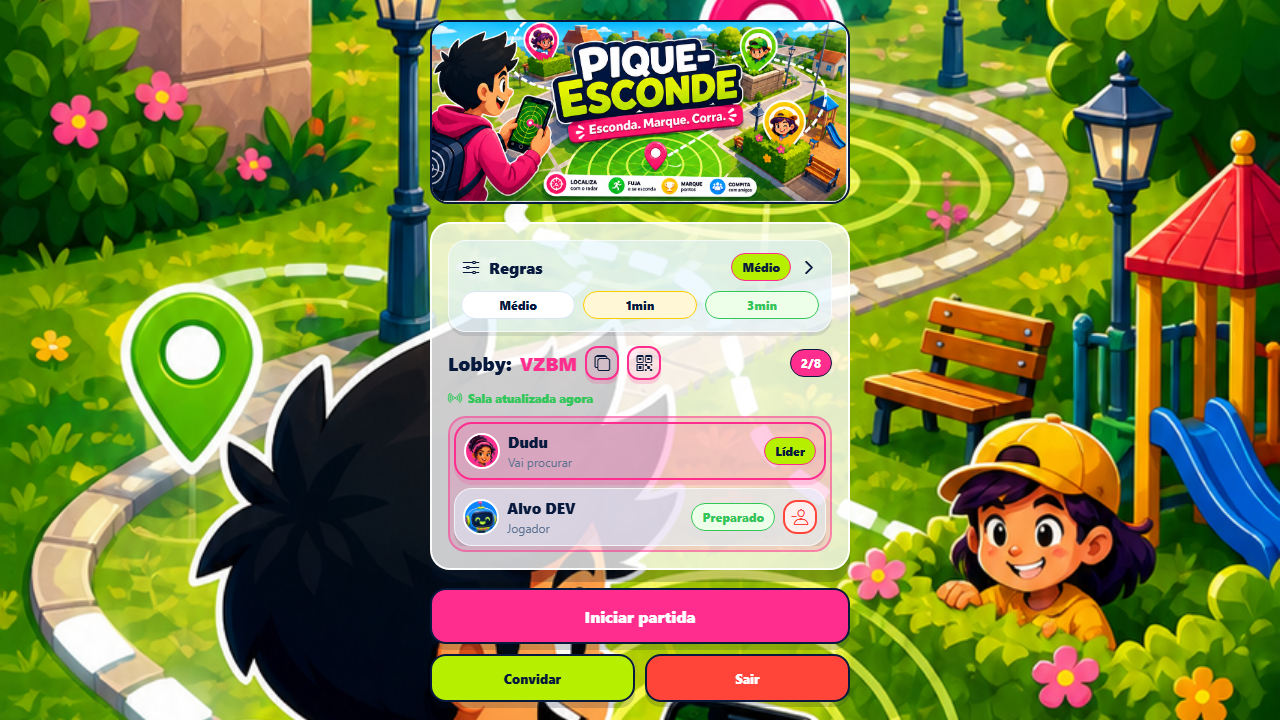
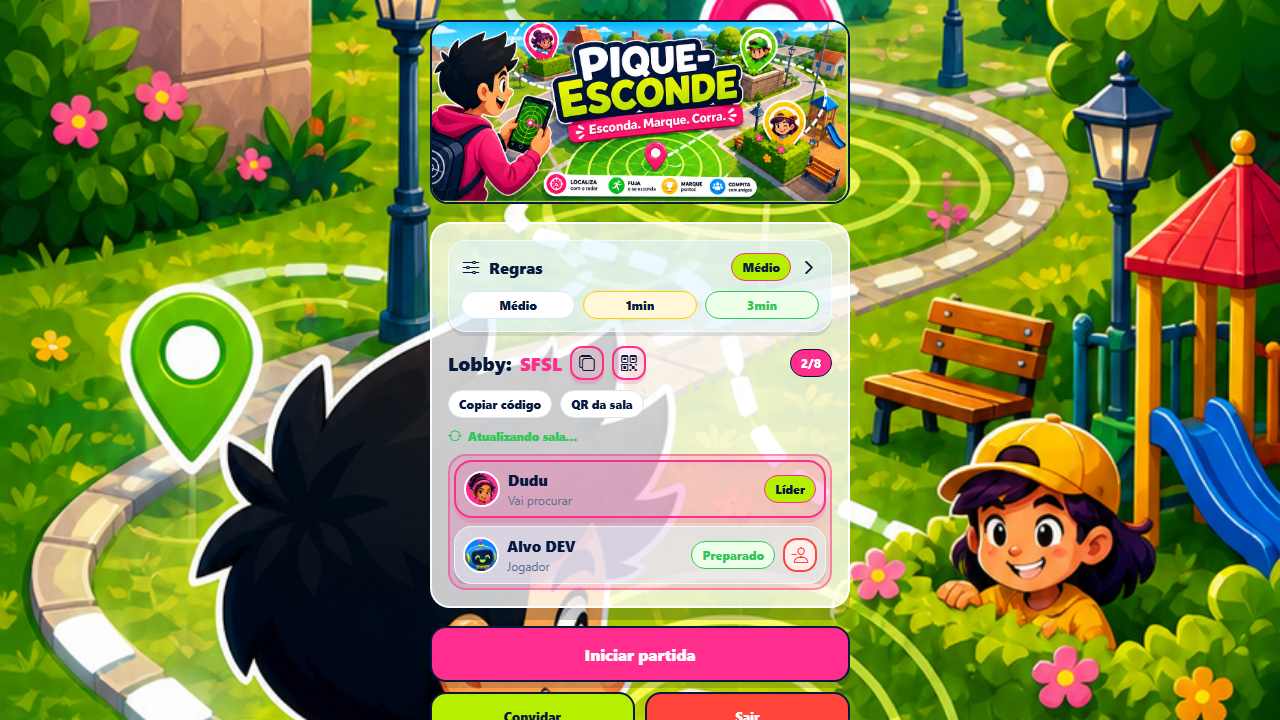
fix: improve lobby and home UX polish

Changed region(s): [[0.3125, 0.4583, 0.6875, 1.0]]

diff --git a/apps/mobile/src/components/player-list.tsx b/apps/mobile/src/components/player-list.tsx
@@ -13,6 +13,28 @@ function getAvatar(avatarId: string) {
   return avatars.find((avatar) => avatar.id === avatarId) ?? avatars[0];
 }
 
+function getDuplicateCounts(players: RoomPlayer[]) {
+  return players.reduce<Record<string, number>>((counts, player) => {
+    counts[player.nickname] = (counts[player.nickname] ?? 0) + 1;
+    return counts;
+  }, {});
+}
+
+function getNameIndexes(players: RoomPlayer[]) {
+  const seen: Record<string, number> = {};
+
+  return players.reduce<Record<string, number>>((indexes, player) => {
+    seen[player.nickname] = (seen[player.nickname] ?? 0) + 1;
+    indexes[player.id] = seen[player.nickname];
+    return indexes;
+  }, {});
+}
+
+function getPlayerLabel(player: RoomPlayer, duplicateCounts: Record<string, number>, nameIndexes: Record<string, number>) {
+  if ((duplicateCounts[player.nickname] ?? 0) <= 1) return player.nickname;
+  return `${player.nickname} #${nameIndexes[player.id] ?? 1}`;
+}
+
 type PlayerListProps = {
   activePlayerId?: string;
   canRemove?: boolean;
@@ -26,6 +48,8 @@ export function PlayerList({ activePlayerId, canRemove, onPromote, onRemove, pla
     if (firstPlayer.isLeader === secondPlayer.isLeader) return 0;
     return firstPlayer.isLeader ? -1 : 1;
   });
+  const duplicateCounts = getDuplicateCounts(orderedPlayers);
+  const nameIndexes = getNameIndexes(orderedPlayers);
 
   const getTone = (player: RoomPlayer): BadgeTone => {
     if (player.isLeader) return 'leader';
@@ -56,6 +80,7 @@ export function PlayerList({ activePlayerId, canRemove, onPromote, onRemove, pla
           const avatar = getAvatar(player.avatarId);
           const canRemovePlayer = canRemove && player.id !== activePlayerId;
           const canPromotePlayer = Boolean(onPromote && player.id !== activePlayerId && !player.isLeader);
+          const playerLabel = getPlayerLabel(player, duplicateCounts, nameIndexes);
           const content = (
             <>
               <View
@@ -74,7 +99,7 @@ export function PlayerList({ activePlayerId, canRemove, onPromote, onRemove, pla
               </View>
               <View style={{ flex: 1, gap: 2, minWidth: 0 }}>
                 <Text numberOfLines={1} style={{ color: colors.ink, fontSize: 15, fontWeight: '800' }}>
-                  {player.nickname}
+                  {playerLabel}
                 </Text>
                 <Text numberOfLines={1} style={{ color: colors.muted, fontSize: 12 }}>
                   {player.isLeader ? t('player.roleLeaderSeeker') : player.id === activePlayerId ? t('player.roleYou') : t('player.rolePlayer')}

diff --git a/apps/mobile/app/lobby.tsx b/apps/mobile/app/lobby.tsx
@@ -78,12 +78,19 @@ export default function LobbyScreen() {
   const handleCopyCode = async () => {
     if (!room?.code) return;
 
-    if (typeof navigator !== 'undefined' && navigator.clipboard?.writeText) {
-      await navigator.clipboard.writeText(room.code);
-    }
+    try {
+      if (typeof navigator !== 'undefined' && navigator.clipboard?.writeText) {
+        await navigator.clipboard.writeText(room.code);
+      }
 
-    setCopied(true);
-    setTimeout(() => setCopied(false), 1600);
+      setCopied(true);
+      setInviteFeedback(t('lobby.copyShareHint'));
+      setTimeout(() => setCopied(false), 1600);
+      setTimeout(() => setInviteFeedback(undefined), 2200);
+    } catch {
+      setInviteFeedback(t('lobby.copyUnavailable'));
+      setTimeout(() => setInviteFeedback(undefined), 2200);
+    }
   };
 
   const handleShareInvite = async () => {
@@ -270,6 +277,10 @@ export default function LobbyScreen() {
               {inviteFeedback}
             </Text>
           ) : null}
+          <View style={{ flexDirection: 'row', gap: 8 }}>
+            <Badge label={copied ? t('lobby.copyDone') : t('lobby.copyShort')} tone={copied ? 'ready' : 'neutral'} />
+            <Badge label={qrOpen ? t('lobby.qrOpen') : t('lobby.qrShort')} tone={qrOpen ? 'ready' : 'neutral'} />
+          </View>
           <View style={{ alignItems: 'center', flexDirection: 'row', gap: 6 }}>
             <Ionicons color={syncColor} name={isRoomSyncing ? 'sync-outline' : 'radio-outline'} size={14} />
             <Text selectable style={{ color: syncColor, fontSize: 12, fontWeight: '900' }}>

diff --git a/apps/mobile/app/index.tsx b/apps/mobile/app/index.tsx
@@ -88,8 +88,20 @@ export default function HomeScreen() {
 function HomeLegalLink({ href, label }: { href: '/privacy' | '/support' | '/terms'; label: string }) {
   return (
     <Link href={href} asChild>
-      <Pressable accessibilityLabel={label} accessibilityRole="link">
-        <Text style={{ color: colors.navy, fontSize: 12, fontWeight: '900', opacity: 0.82 }}>{label}</Text>
+      <Pressable
+        accessibilityLabel={label}
+        accessibilityRole="link"
+        style={{
+          backgroundColor: 'rgba(255, 255, 255, 0.72)',
+          borderColor: 'rgba(7, 26, 61, 0.18)',
+          borderRadius: 999,
+          borderWidth: 1,
+          minHeight: 44,
+          justifyContent: 'center',
+          paddingHorizontal: 10,
+          paddingVertical: 5,
+        }}>
+        <Text style={{ color: colors.navy, fontSize: 13, fontWeight: '900' }}>{label}</Text>
       </Pressable>
     </Link>
   );

diff --git a/apps/mobile/src/i18n/pt-BR.ts b/apps/mobile/src/i18n/pt-BR.ts
@@ -71,11 +71,17 @@ export const ptBR = {
   'location.title': 'Localização',
   'location.summary': 'Usamos sua localização para calcular radar e capturas.',
   'lobby.copyCode': 'Copiar código da sala',
+  'lobby.copyDone': 'Código copiado',
+  'lobby.copyShareHint': 'Código copiado. Envie para quem vai jogar.',
+  'lobby.copyShort': 'Copiar código',
+  'lobby.copyUnavailable': 'Nao foi possivel copiar. Toque e segure o codigo para copiar.',
   'lobby.closeQr': 'Fechar',
   'lobby.invite': 'Convidar',
   'lobby.inviteMessage': 'Bora jogar Pique Esconde? Entre na sala {code}: {url}',
   'lobby.inviteTitle': 'Convite Pique Esconde',
   'lobby.openQr': 'Abrir QR code da sala',
+  'lobby.qrOpen': 'QR aberto',
+  'lobby.qrShort': 'QR da sala',
   'lobby.players': 'Jogadores',
   'lobby.qrBody': 'Escaneie para entrar na sala ou digite o código no app.',
   'lobby.qrTitle': 'Entre na sala',

diff --git a/apps/mobile/src/i18n/en-US.ts b/apps/mobile/src/i18n/en-US.ts
@@ -75,11 +75,17 @@ export const enUS = {
   'location.title': 'Location',
   'location.summary': 'We use your location to calculate radar and captures.',
   'lobby.copyCode': 'Copy room code',
+  'lobby.copyDone': 'Code copied',
+  'lobby.copyShareHint': 'Code copied. Send it to whoever will play.',
+  'lobby.copyShort': 'Copy code',
+  'lobby.copyUnavailable': 'Could not copy. Tap and hold the code to copy.',
   'lobby.closeQr': 'Close',
   'lobby.invite': 'Invite',
   'lobby.inviteMessage': 'Come play Pique Esconde. Join room {code}: {url}',
   'lobby.inviteTitle': 'Pique Esconde invite',
   'lobby.openQr': 'Open room QR code',
+  'lobby.qrOpen': 'QR open',
+  'lobby.qrShort': 'Room QR',
   'lobby.players': 'Players',
   'lobby.qrBody': 'Scan to join the room or type the code in the app.',
   'lobby.qrTitle': 'Join the room',

diff --git a/apps/mobile/src/components/cover-banner.tsx b/apps/mobile/src/components/cover-banner.tsx
@@ -7,7 +7,7 @@ export function CoverBanner() {
   return (
     <View
       style={{
-        backgroundColor: colors.surface,
+        backgroundColor: colors.esconde,
         borderColor: colors.navy,
         borderRadius: 18,
         borderWidth: 2,
@@ -16,8 +16,11 @@ export function CoverBanner() {
       }}>
       <Image
         source={require('@/assets/images/pique-esconde-store-cover.png')}
+        cachePolicy="memory-disk"
         contentFit="cover"
-        style={{ aspectRatio: 2.31, width: '100%' }}
+        placeholderContentFit="cover"
+        style={{ aspectRatio: 2.31, backgroundColor: colors.esconde, width: '100%' }}
+        transition={120}
       />
     </View>
   );

diff --git a/docs/qa/test-plan.md b/docs/qa/test-plan.md
@@ -102,6 +102,10 @@ Preencher durante cada execucao:
 - Data:
 - Responsavel:
 
+## Nota Sobre Abas e Sessoes
+
+Para validar dois jogadores no navegador, use dois contextos separados: dois navegadores diferentes, janela anonima separada ou dois celulares. Duas abas comuns no mesmo navegador podem compartilhar a mesma sessao local e parecer o mesmo jogador.
+
 ## Criterio de Pronto para MVP
 
 O MVP pode avancar para piloto quando:
